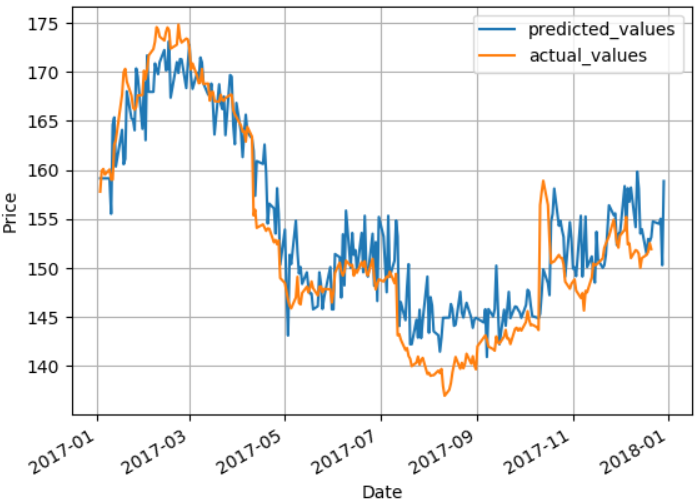
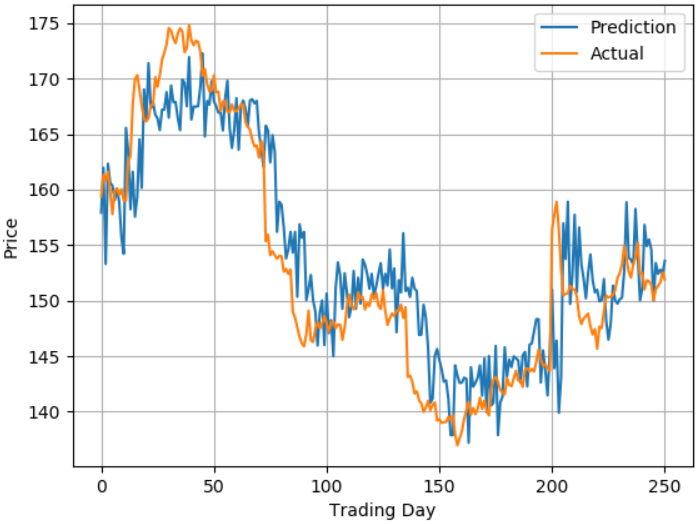
knn reboot

Changed region(s): [[0.0, 0.0, 1.0, 1.0], [0.0301, 0.9, 0.0904, 0.96]]

diff --git a/machine_learning/knn_wrapper.py b/machine_learning/knn_wrapper.py
@@ -1,0 +1,58 @@
+''' this file contains an implementation of kNN regression
+'''
+
+import numpy as np
+
+'''kNN wrapper class
+
+*k       : k nearest neighbors to be considered
+*dataset : training dataset including the features and the output
+'''
+class knn:
+    __k = 0
+    __dataset = None
+
+    '''constructor function
+
+    *k       : k nearest neighbors to be considered
+    '''
+    def __init__(self, k):
+        self.__k = k
+
+    '''training function
+
+    *data_x : training dataset features
+    *data_y : training dataset output
+    '''
+    def train(self, data_x, data_y):
+        data_y_reshaped = data_y.reshape((data_y.shape[0], 1))
+        self.__dataset = np.concatenate((data_x, data_y_reshaped), axis=1)
+
+    '''querying/evaluating function
+
+    *features : test dataset features
+    '''
+    def query(self, features):
+        dataset_price_normed = (self.__dataset[:, 0]/self.__dataset[0, 0]) - 1
+        features_price_normed = (features[:, 0]/features[0, 0]) - 1
+        
+        cumm_difference = np.zeros(features.shape[0])
+        predicted_price = np.zeros(features.shape[0])
+
+        for i in range(0, features.shape[0]):
+
+            price_normed_difference = np.absolute(dataset_price_normed - features_price_normed[i])
+            moment_difference = np.absolute(self.__dataset[:, 1] - features[i, 1])
+            sma_difference = np.absolute(self.__dataset[:, 2] - features[i, 2])
+            b_band_difference =  np.absolute(self.__dataset[:, 3] - features[i, 3])
+            
+            cumm_difference = price_normed_difference + moment_difference + sma_difference + b_band_difference
+            difference_op = np.asarray([cumm_difference, self.__dataset[:, -1]]).T
+            sorting_index = np.argsort(difference_op[:, 0])
+            difference_sorted = difference_op[sorting_index]
+
+            k_mean = np.mean(difference_sorted[:self.__k, 1])
+            predicted_price[i] = k_mean
+
+        predicted_price += features[0, 0] - self.__dataset[0, 0]
+        return predicted_price

diff --git a/machine_learning/knn_regression.py b/machine_learning/knn_regression.py
@@ -1,0 +1,52 @@
+''' this file shows an implementation of kNN regression to
+predict stock prices one trading week in advance
+'''
+from utils.util import get_data, plot_data
+from machine_learning.dataset_preprocessing import get_dataset_dataframe
+from machine_learning.linear_regression import calculate_rmse
+import machine_learning.knn_wrapper as knn
+import numpy as np
+import matplotlib.pyplot as plt
+
+'''a tester function
+'''
+def main():
+    #getting the preprocessed dataset dataframe
+    dataset_df = get_dataset_dataframe()
+    #dataset preparation
+    dataset = dataset_df.values
+    #dataset splitting
+    training_start_index = 0
+    training_end_index = 503
+    testing_start_index = 504
+    testing_end_index = 755
+    X_train = dataset[training_start_index:training_end_index+1, :-1]
+    Y_train = dataset[training_start_index:training_end_index+1, -1]
+    X_test = dataset[testing_start_index:testing_end_index+1, :-1]
+    Y_test = dataset[testing_start_index:testing_end_index+1, -1]
+    #kNN model
+    model = knn.knn(3)
+    #fitting the training data
+    model.train(X_train, Y_train)
+    #predictions
+    predictions = model.query(X_test)
+    #evaluation
+    rmse = (calculate_rmse(predictions, Y_test) ** 0.5)
+    print('Test RMSE: %.3f' %(rmse))
+    correlation = np.corrcoef(predictions, Y_test)
+    print("Correlation: %.3f"%(correlation[0, 1]))
+    #plotting
+    _, ax = plt.subplots()
+    ax.plot(range(len(predictions)), predictions, label='Prediction')
+    ax.plot(range(len(Y_test)), Y_test, label='Actual')
+    ax.set_xlabel('Trading Day')
+    ax.set_ylabel('Price')
+    ax.legend(loc='best')
+    ax.grid(True)
+    
+    plt.show()
+
+'''to ensure running the tester function only when this file is run, not imported
+'''
+if __name__ == "__main__":
+    main()

diff --git a/README.md b/README.md
@@ -17,10 +17,10 @@ This is the experimentation section of the thesis.
 python -m machine_learning.linear_regression
 ```
 ![Linear Regression](https://github.com/ahmedhamdi96/ML4T/blob/master/results/lin_reg.png)
-* <strong> kNN Regression: (3.938, 0.941)</strong>
+* <strong> kNN Regression: (2.142, 0.905)</strong>
 
 ```sh
-python -m machine_learning.prices_predictor
+python -m machine_learning.knn_regression
 ```
 ![kNN Regression](https://github.com/ahmedhamdi96/ML4T/blob/master/results/knn.png)
 * <strong> Keras Regression: (3.360, 0.947)</strong>
